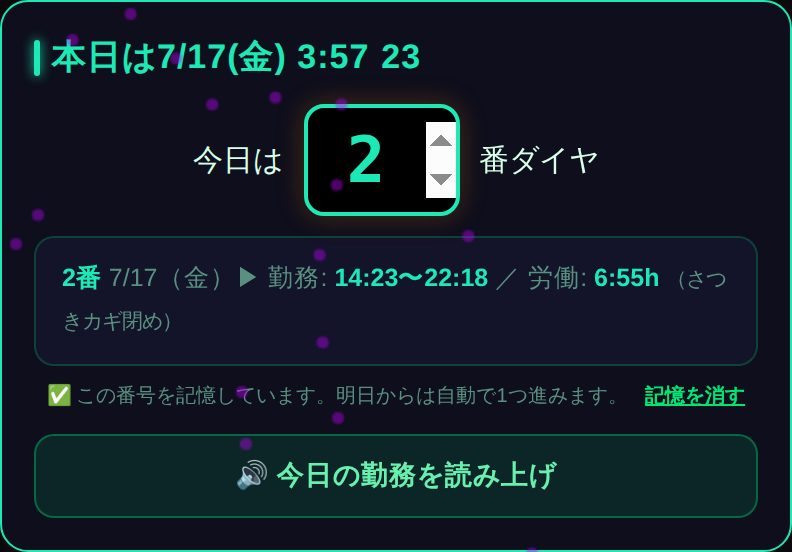
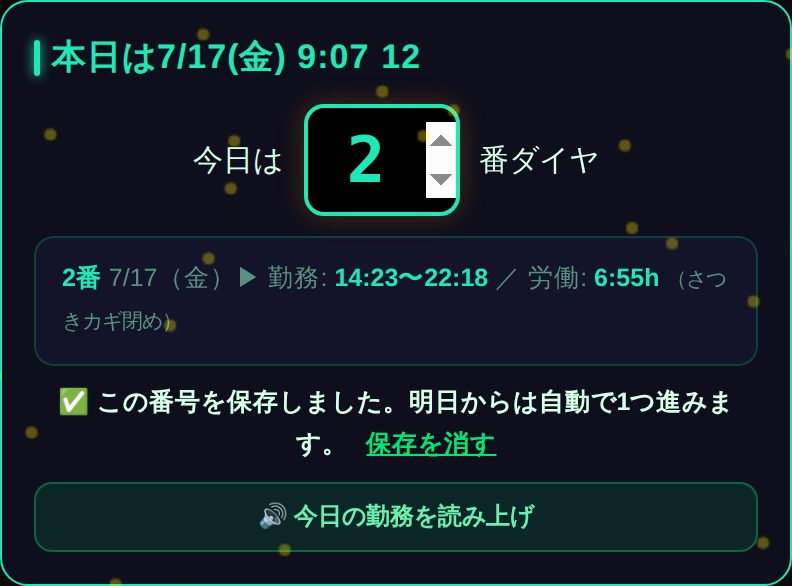
使い方のスクショを最新(保存メッセージ入り)に更新

diff --git a/sw.js b/sw.js
@@ -10,7 +10,7 @@
 
 // キャッシュ名にバージョンを入れておき、更新のたびにこの値を変えることで
 // 新しいService Workerが「更新あり」と判定されるようにする
-const CACHE_VERSION = 'c-shukkin-v11';
+const CACHE_VERSION = 'c-shukkin-v12';
 const CACHE_FILES = [
     './',
     './index.html',